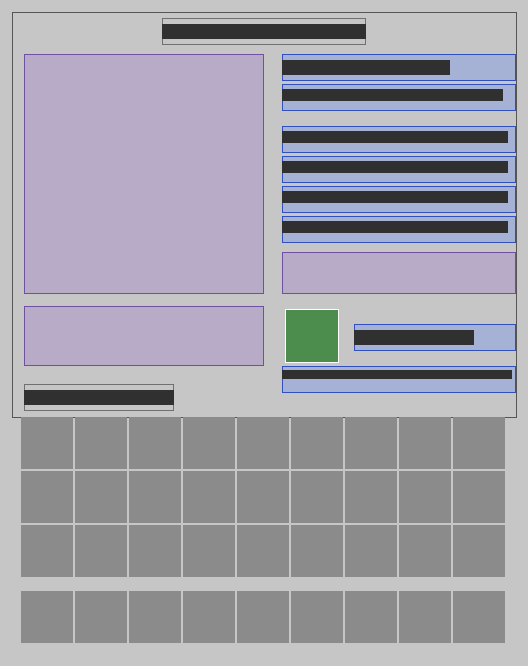
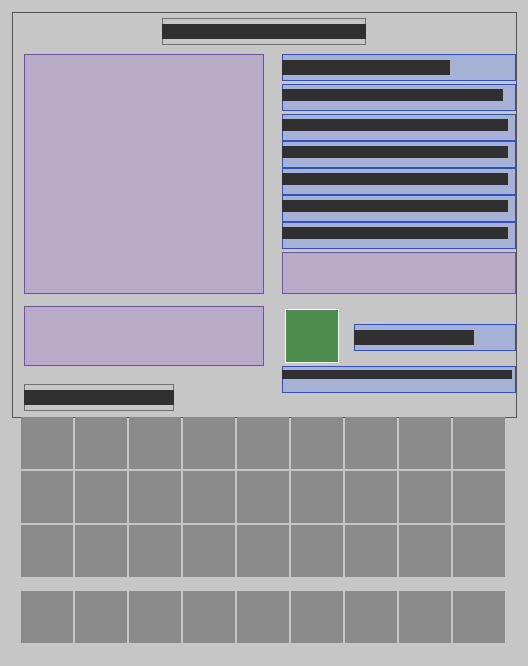
O-010 [9-18] [9-22]: v0.3 chain on real machines only; planar technique and integrated circuit as probe discoveries
- v03_chain: spin coater, developer bench, resist stripper (E) and mask aligner (C) replace the ChipOps stand-ins
- new discovery monolithic_ic (1959, Discoveries.integrated): a transistor and a resistor in a separate region joined by on-chip Al = Noyce's planar IC; Kilby's 1958 Ge/gold-wire IC noted as not makeable (REFERENCES L4)
- probe station lists 5 discoveries; tests count Discoveries.all().size() instead of 4
- TECH_TREE [9-18] [9-22] done, LITHO_DESIGN 6.3 and 10 updated, test_queue, HANDOFF, LOG. test.ps1 186/186

Changed region(s): [[0.5152, 0.1502, 0.9697, 0.3904]]

diff --git a/src/gametest/java/com/taku3/semiconductorlab/gametest/SemiconductorTests.java b/src/gametest/java/com/taku3/semiconductorlab/gametest/SemiconductorTests.java
@@ -339,7 +339,7 @@ public class SemiconductorTests extends LabTestBase {
         h.assertTrue(closed.get(ModDataComponents.OXIDE_NM) > 600, "and the oxide grows");
         // 全部の工程（エッチングはこの槽と同じ ChipOps）で NOT の例が4つの発見になる
         ItemStack done = com.taku3.semiconductorlab.litho.LithoExamples.process(wafer, design, com.taku3.semiconductorlab.litho.ExposureTool.CONTACT_G);
-        h.assertValueEqual(com.taku3.semiconductorlab.litho.Discoveries.match(com.taku3.semiconductorlab.litho.Netlist.extract(com.taku3.semiconductorlab.litho.ChipModel.of(done.get(ModDataComponents.CHIP_STATE)))).size(), 4, "NOT example through all steps");
+        h.assertValueEqual(com.taku3.semiconductorlab.litho.Discoveries.match(com.taku3.semiconductorlab.litho.Netlist.extract(com.taku3.semiconductorlab.litho.ChipModel.of(done.get(ModDataComponents.CHIP_STATE)))).size(), com.taku3.semiconductorlab.litho.Discoveries.all().size(), "NOT example through all steps");
         LOG.info("[LAB] litho hookup [9-06]/[9-15]: etching tank opens windows on 4 developed wafers (= ChipOps.etchOxide), oxidation furnace closes them (reoxidize) and grows the oxide");
         h.succeed();
     }
@@ -408,7 +408,7 @@ public class SemiconductorTests extends LabTestBase {
         lv.getEntitiesOfClass(net.minecraft.world.entity.item.ItemEntity.class, new net.minecraft.world.phys.AABB(ta).inflate(2)).forEach(net.minecraft.world.entity.Entity::discard);
         ItemStack chip = com.taku3.semiconductorlab.litho.ChipOps.strip(wired).out();
         var found = com.taku3.semiconductorlab.litho.Discoveries.match(com.taku3.semiconductorlab.litho.Netlist.extract(com.taku3.semiconductorlab.litho.ChipModel.of(chip.get(ModDataComponents.CHIP_STATE))));
-        h.assertValueEqual(found.size(), 4, "wired chip = NOT example (4 discoveries)");
+        h.assertValueEqual(found.size(), com.taku3.semiconductorlab.litho.Discoveries.all().size(), "wired chip = NOT example (all discoveries)");
         LOG.info("[LAB] Al wiring [9-25]: bone ash + H2SO4 -> H3PO4; evaporator puts Al on 8 wafers (0.004 Pa, not 50 Pa); H3PO4 in the etching tank leaves the wiring; NOT example -> {} discoveries", found.size());
         h.succeed();
     }
@@ -499,7 +499,7 @@ public class SemiconductorTests extends LabTestBase {
             w = cleaned;
         }
         h.assertTrue(maxDirt > 0, "dirt builds up between cleanings");
-        h.assertValueEqual(com.taku3.semiconductorlab.litho.Discoveries.match(com.taku3.semiconductorlab.litho.Netlist.extract(com.taku3.semiconductorlab.litho.ChipModel.of(w.get(ModDataComponents.CHIP_STATE)))).size(), 4, "cleaned NOT example still gives 4 discoveries");
+        h.assertValueEqual(com.taku3.semiconductorlab.litho.Discoveries.match(com.taku3.semiconductorlab.litho.Netlist.extract(com.taku3.semiconductorlab.litho.ChipModel.of(w.get(ModDataComponents.CHIP_STATE)))).size(), com.taku3.semiconductorlab.litho.Discoveries.all().size(), "cleaned NOT example still gives all discoveries");
         // 薬品なしでは動かない
         c.setItem(com.taku3.semiconductorlab.block.CleaningBenchBlockEntity.SLOT_OUT, ItemStack.EMPTY);
         ItemStack dirty = com.taku3.semiconductorlab.litho.ChipOps.strip(com.taku3.semiconductorlab.litho.ChipOps.coat(w).out()).out();
@@ -660,7 +660,7 @@ public class SemiconductorTests extends LabTestBase {
             if (k.isDiffusion()) w = com.taku3.semiconductorlab.litho.ChipOps.diffuse(w, k.dopes).out();
             else if (k != com.taku3.semiconductorlab.litho.LayerKind.METAL) w = com.taku3.semiconductorlab.litho.ChipOps.depositMetal(w).out();
         }
-        h.assertValueEqual(com.taku3.semiconductorlab.litho.Discoveries.match(com.taku3.semiconductorlab.litho.Netlist.extract(com.taku3.semiconductorlab.litho.ChipModel.of(w.get(ModDataComponents.CHIP_STATE)))).size(), 4, "NOT example with the spin coater -> 4 discoveries");
+        h.assertValueEqual(com.taku3.semiconductorlab.litho.Discoveries.match(com.taku3.semiconductorlab.litho.Netlist.extract(com.taku3.semiconductorlab.litho.ChipModel.of(w.get(ModDataComponents.CHIP_STATE)))).size(), com.taku3.semiconductorlab.litho.Discoveries.all().size(), "NOT example with the spin coater -> all discoveries");
         // 塗ったウェハーにもう一度は塗れない
         ItemStack again = coat.apply(com.taku3.semiconductorlab.litho.ChipOps.coat(w).out());
         h.assertTrue(again.isEmpty(), "already coated -> cannot coat again");
@@ -702,7 +702,7 @@ public class SemiconductorTests extends LabTestBase {
             if (k.isDiffusion()) w = com.taku3.semiconductorlab.litho.ChipOps.diffuse(w, k.dopes).out();
             else if (k != com.taku3.semiconductorlab.litho.LayerKind.METAL) w = com.taku3.semiconductorlab.litho.ChipOps.depositMetal(w).out();
         }
-        h.assertValueEqual(com.taku3.semiconductorlab.litho.Discoveries.match(com.taku3.semiconductorlab.litho.Netlist.extract(com.taku3.semiconductorlab.litho.ChipModel.of(w.get(ModDataComponents.CHIP_STATE)))).size(), 4, "NOT example with the stripper -> 4 discoveries");
+        h.assertValueEqual(com.taku3.semiconductorlab.litho.Discoveries.match(com.taku3.semiconductorlab.litho.Netlist.extract(com.taku3.semiconductorlab.litho.ChipModel.of(w.get(ModDataComponents.CHIP_STATE)))).size(), com.taku3.semiconductorlab.litho.Discoveries.all().size(), "NOT example with the stripper -> all discoveries");
         h.assertTrue(com.taku3.semiconductorlab.block.ResistStripperBlockEntity.product(w).isEmpty(), "no resist -> nothing to strip");
         h.getLevel().getEntitiesOfClass(net.minecraft.world.entity.item.ItemEntity.class, new net.minecraft.world.phys.AABB(h.absolutePos(fp)).inflate(2)).forEach(net.minecraft.world.entity.Entity::discard);
         LOG.info("[LAB] resist stripper: H2SO4 + H2O2 strips 8 wafers per run (rework too); NOT example -> 4 discoveries");
@@ -748,7 +748,7 @@ public class SemiconductorTests extends LabTestBase {
             if (k.isDiffusion()) w = com.taku3.semiconductorlab.litho.ChipOps.diffuse(w, k.dopes).out();
             else if (k != com.taku3.semiconductorlab.litho.LayerKind.METAL) w = com.taku3.semiconductorlab.litho.ChipOps.depositMetal(w).out();
         }
-        h.assertValueEqual(com.taku3.semiconductorlab.litho.Discoveries.match(com.taku3.semiconductorlab.litho.Netlist.extract(com.taku3.semiconductorlab.litho.ChipModel.of(w.get(ModDataComponents.CHIP_STATE)))).size(), 4, "coater -> develop -> strip machines: NOT example -> 4 discoveries");
+        h.assertValueEqual(com.taku3.semiconductorlab.litho.Discoveries.match(com.taku3.semiconductorlab.litho.Netlist.extract(com.taku3.semiconductorlab.litho.ChipModel.of(w.get(ModDataComponents.CHIP_STATE)))).size(), com.taku3.semiconductorlab.litho.Discoveries.all().size(), "coater -> develop -> strip machines: NOT example -> all discoveries");
         h.getLevel().getEntitiesOfClass(net.minecraft.world.entity.item.ItemEntity.class, new net.minecraft.world.phys.AABB(h.absolutePos(p(2, 1, 2))).inflate(4)).forEach(net.minecraft.world.entity.Entity::discard);
         LOG.info("[LAB] developer [9-21]: dilute NaOH develops exposed wafers (8 per run); coater + developer + stripper machines -> NOT example 4 discoveries");
         h.succeed();
@@ -1017,7 +1017,7 @@ public class SemiconductorTests extends LabTestBase {
         // 予想（設計図から）
         var predicted = com.taku3.semiconductorlab.litho.Netlist.extract(com.taku3.semiconductorlab.litho.ChipModel.of(design, "p"));
         var ids = com.taku3.semiconductorlab.litho.Discoveries.match(predicted).stream().map(com.taku3.semiconductorlab.litho.Discoveries.Discovery::id).toList();
-        h.assertTrue(ids.equals(java.util.List.of("diffused_resistor", "junction_diode", "planar_transistor", "rtl_not")), "8x8 example finds all four: " + ids);
+        h.assertTrue(ids.equals(java.util.List.of("diffused_resistor", "junction_diode", "planar_transistor", "monolithic_ic", "rtl_not")), "8x8 example finds all five: " + ids);
         int[] pins = com.taku3.semiconductorlab.litho.Circuit.notPins(predicted);
         double hi = com.taku3.semiconductorlab.litho.Circuit.notOutput(predicted, pins, false), lo = com.taku3.semiconductorlab.litho.Circuit.notOutput(predicted, pins, true);
         // 出力の低い方は約 1 V：島（コレクタ）の抵抗が大きい（埋め込み層のない最初のころの IC と同じ）
@@ -1028,7 +1028,7 @@ public class SemiconductorTests extends LabTestBase {
         ItemStack done = com.taku3.semiconductorlab.litho.LithoExamples.process(wafer, design, com.taku3.semiconductorlab.litho.ExposureTool.CONTACT_G);
         h.assertTrue(done.is(Semiconductor.PROCESS_WAFER) && done.getCount() == 8, "8 process wafers come out");
         var made = com.taku3.semiconductorlab.litho.Netlist.extract(com.taku3.semiconductorlab.litho.ChipModel.of(done.get(ModDataComponents.CHIP_STATE)));
-        h.assertTrue(com.taku3.semiconductorlab.litho.Discoveries.match(made).size() == 4, "processed chip = predicted chip");
+        h.assertTrue(com.taku3.semiconductorlab.litho.Discoveries.match(made).size() == com.taku3.semiconductorlab.litho.Discoveries.all().size(), "processed chip = predicted chip");
         h.assertValueEqual(wafer.getCount(), 8, "the input stack is not changed");
         // まちがった順・合わない物は断られる（ウェハーはそのまま）
         h.assertValueEqual(com.taku3.semiconductorlab.litho.ChipOps.expose(wafer, design.mask(0), com.taku3.semiconductorlab.litho.ExposureTool.CONTACT_G).reason(), "no_resist", "expose before coating");
@@ -1148,7 +1148,7 @@ public class SemiconductorTests extends LabTestBase {
         var filthyNl = com.taku3.semiconductorlab.litho.Netlist.extract(com.taku3.semiconductorlab.litho.ChipModel.of(filthy));
         h.assertFalse(com.taku3.semiconductorlab.litho.Circuit.worksAsNot(filthyNl), "very dirty chip does not work as a NOT");
         h.assertTrue(be.onButton(player, com.taku3.semiconductorlab.block.ProbeStationBlockEntity.BTN_PROBE), "probe");
-        h.assertValueEqual(be.found(), 0b1111, "four discoveries on this chip");
+        h.assertValueEqual(be.found(), (1 << com.taku3.semiconductorlab.litho.Discoveries.all().size()) - 1, "all discoveries on this chip");
         for (var d : com.taku3.semiconductorlab.litho.Discoveries.all())
             h.assertTrue(h.getLevel().getServer().getAdvancements().get(com.taku3.semiconductorlab.SemiconductorLab.id("discovery/" + d.id())) != null, "advancement discovery/" + d.id());
         be.getContainer().setItem(com.taku3.semiconductorlab.block.ProbeStationBlockEntity.SLOT_WAFER, ItemStack.EMPTY);
@@ -1253,7 +1253,11 @@ public class SemiconductorTests extends LabTestBase {
         int step = 0;
         for (int i = 0; i < design.layers().size(); i++) {
             var k = design.layers().get(i).kind();
-            w = ok(h, com.taku3.semiconductorlab.litho.ChipOps.coat(w), "coat " + i + " (stand-in for [9-19])");
+            // レジスト塗布機 [9-19]（実機、E）
+            w = runConsumer(h, p(7, 1, 4), Semiconductor.SPIN_COATER.block, new int[] {com.taku3.semiconductorlab.block.SpinCoaterBlockEntity.SLOT_WAFER, com.taku3.semiconductorlab.block.SpinCoaterBlockEntity.SLOT_RESIST},
+                    new ItemStack[] {w, new ItemStack(Chemistry.POSITIVE_RESIST)}, com.taku3.semiconductorlab.block.SpinCoaterBlockEntity.SLOT_OUT, com.taku3.semiconductorlab.block.SpinCoaterBlockEntity.TICKS + 10, com.taku3.semiconductorlab.block.SpinCoaterBlockEntity.WATTS);
+            h.assertTrue(w.getCount() == 8 && com.taku3.semiconductorlab.litho.ChipOps.state(w) != null && com.taku3.semiconductorlab.litho.ChipOps.state(w).resist() == com.taku3.semiconductorlab.litho.ChipState.Resist.COATED,
+                    "spin coater coats layer " + i + ", got " + w);
             // マスクアライナー [9-20]（実機、密着）：設計図の層のマスクをフォトマスクにして重ねる
             ItemStack photomask = new ItemStack(com.taku3.semiconductorlab.content.Optics.PHOTOMASK);
             photomask.set(ModDataComponents.MASK, design.mask(i));
@@ -1261,15 +1265,21 @@ public class SemiconductorTests extends LabTestBase {
                     new ItemStack[] {w, photomask}, com.taku3.semiconductorlab.block.MaskAlignerBlockEntity.SLOT_OUT, com.taku3.semiconductorlab.block.MaskAlignerBlockEntity.TICKS + 10, com.taku3.semiconductorlab.block.MaskAlignerBlockEntity.WATTS);
             h.assertTrue(com.taku3.semiconductorlab.litho.ChipOps.state(w) != null && com.taku3.semiconductorlab.litho.ChipOps.state(w).resist() == com.taku3.semiconductorlab.litho.ChipState.Resist.EXPOSED,
                     "mask aligner (contact) exposes layer " + i);
-            w = ok(h, com.taku3.semiconductorlab.litho.ChipOps.develop(w), "develop " + i + " (stand-in for [9-21])");
+            // 現像槽 [9-21]（実機、E）
+            w = runConsumer(h, p(7, 1, 6), Semiconductor.DEVELOPER_BENCH.block, new int[] {com.taku3.semiconductorlab.block.DeveloperBenchBlockEntity.SLOT_WAFER, com.taku3.semiconductorlab.block.DeveloperBenchBlockEntity.SLOT_DEV},
+                    new ItemStack[] {w, new ItemStack(Chemistry.DEVELOPER)}, com.taku3.semiconductorlab.block.DeveloperBenchBlockEntity.SLOT_OUT, com.taku3.semiconductorlab.block.DeveloperBenchBlockEntity.TICKS + 10, com.taku3.semiconductorlab.block.DeveloperBenchBlockEntity.WATTS);
+            h.assertTrue(w.getCount() == 8 && com.taku3.semiconductorlab.litho.ChipOps.state(w) != null && com.taku3.semiconductorlab.litho.ChipOps.state(w).resist() == com.taku3.semiconductorlab.litho.ChipState.Resist.DEVELOPED,
+                    "developer bench develops layer " + i + ", got " + w);
             if (k == com.taku3.semiconductorlab.litho.LayerKind.METAL) {
                 w = runEtch(h, p(3, 1, 1), w, Chemistry.PHOSPHORIC_ACID);   // Al のエッチング（実機）
                 h.assertTrue(com.taku3.semiconductorlab.litho.ChipOps.state(w).has(k), "etch tank + phosphoric acid -> metal layer");
-                w = ok(h, com.taku3.semiconductorlab.litho.ChipOps.strip(w), "strip " + i);
+                w = runConsumer(h, p(1, 1, 6), Semiconductor.RESIST_STRIPPER.block, new int[] {com.taku3.semiconductorlab.block.ResistStripperBlockEntity.SLOT_WAFER, com.taku3.semiconductorlab.block.ResistStripperBlockEntity.SLOT_ACID, com.taku3.semiconductorlab.block.ResistStripperBlockEntity.SLOT_PEROXIDE},
+                        new ItemStack[] {w, new ItemStack(Chemistry.SULFURIC_ACID), new ItemStack(Chemistry.HYDROGEN_PEROXIDE)}, com.taku3.semiconductorlab.block.ResistStripperBlockEntity.SLOT_OUT, com.taku3.semiconductorlab.block.ResistStripperBlockEntity.TICKS + 10, com.taku3.semiconductorlab.block.ResistStripperBlockEntity.WATTS);   // レジストはがし槽（実機、E）
             } else {
                 w = runEtch(h, p(3, 1, 1), w, Chemistry.HYDROFLUORIC_ACID);   // 酸化膜の窓（実機）
                 h.assertTrue(com.taku3.semiconductorlab.litho.ChipOps.state(w) != null && com.taku3.semiconductorlab.litho.ChipOps.state(w).hasWindows(), "etch tank + HF -> windows, layer " + i);
-                w = ok(h, com.taku3.semiconductorlab.litho.ChipOps.strip(w), "strip " + i + " (no machine yet)");
+                w = runConsumer(h, p(1, 1, 6), Semiconductor.RESIST_STRIPPER.block, new int[] {com.taku3.semiconductorlab.block.ResistStripperBlockEntity.SLOT_WAFER, com.taku3.semiconductorlab.block.ResistStripperBlockEntity.SLOT_ACID, com.taku3.semiconductorlab.block.ResistStripperBlockEntity.SLOT_PEROXIDE},
+                        new ItemStack[] {w, new ItemStack(Chemistry.SULFURIC_ACID), new ItemStack(Chemistry.HYDROGEN_PEROXIDE)}, com.taku3.semiconductorlab.block.ResistStripperBlockEntity.SLOT_OUT, com.taku3.semiconductorlab.block.ResistStripperBlockEntity.TICKS + 10, com.taku3.semiconductorlab.block.ResistStripperBlockEntity.WATTS);   // レジストはがし槽（実機、E）
                 if (k.isDiffusion()) {   // 拡散炉（実機）
                     var src = new ItemStack(k.dopes == 'n' ? Chemistry.PHOSPHORUS : Metallurgy.BORON_TRIOXIDE);
                     w = runConsumer(h, p(5, 1, 1), Semiconductor.DIFFUSION_FURNACE.block,
@@ -1301,8 +1311,8 @@ public class SemiconductorTests extends LabTestBase {
         var probe = h.getBlockEntity(p(3, 1, 6), com.taku3.semiconductorlab.block.ProbeStationBlockEntity.class);
         probe.getContainer().setItem(com.taku3.semiconductorlab.block.ProbeStationBlockEntity.SLOT_WAFER, w);
         probe.onButton(h.makeMockPlayer(net.minecraft.world.level.GameType.SURVIVAL), com.taku3.semiconductorlab.block.ProbeStationBlockEntity.BTN_PROBE);
-        h.assertValueEqual(probe.found(), 0b1111, "the probe finds resistor, diode, transistor and NOT on the chip made by the machines");
-        LOG.info("[LAB] v0.3 chain: oxidation, mask aligner, etch (HF / phosphoric), diffusion x3, evaporator, cleaning bench, probe = real machines; coat / develop / strip = ChipOps stand-ins; NOT found (dirt {} -> 0)", dirt);
+        h.assertValueEqual(probe.found(), (1 << com.taku3.semiconductorlab.litho.Discoveries.all().size()) - 1, "the probe finds resistor, diode, transistor, IC and NOT on the chip made by the machines");
+        LOG.info("[LAB] v0.3 chain: oxidation, mask aligner, etch (HF / phosphoric), diffusion x3, evaporator, cleaning bench, probe = real machines; spin coater, developer bench, resist stripper = real machines too (no ChipOps stand-ins); NOT found (dirt {} -> 0)", dirt);
         h.succeed();
     }
 

diff --git a/src/main/java/com/taku3/semiconductorlab/litho/Discoveries.java b/src/main/java/com/taku3/semiconductorlab/litho/Discoveries.java
@@ -5,7 +5,7 @@ import java.util.List;
 
 /**
  * 発見の一覧（LITHO_DESIGN §6.3）。検査台でチップを調べ、歴史上の発明と同じつながりなら「見つけた」とする。
- * 正解は教えない：名前が出るのは見つけたあとだけ。v0.3 は4つ（抵抗・ダイオード・トランジスタ・NOT）。
+ * 正解は教えない：名前が出るのは見つけたあとだけ。v0.3 は5つ（抵抗・ダイオード・トランジスタ・IC・NOT）。
  */
 public final class Discoveries {
     private Discoveries() {}
@@ -22,7 +22,23 @@ public final class Discoveries {
         add("diffused_resistor", 1958, "9-22", (nl, k) -> !nl.resistors.isEmpty());
         add("junction_diode", 1940, "9-05", (nl, k) -> !nl.diodes.isEmpty() || !nl.transistors.isEmpty());
         add("planar_transistor", 1959, "9-18", (nl, k) -> !nl.transistors.isEmpty());
+        add("monolithic_ic", 1959, "9-22", (nl, k) -> integrated(nl));   // ノイスのプレーナ IC（O-010）
         add("rtl_not", 1961, "10-09", Circuit::worksAsNot);   // 汚れた（漏れる）チップは動かないことがある
+    }
+
+    /**
+     * 集積回路（[9-22]、ノイス 1959）：1枚の板の中で、トランジスタと「別の領域の」抵抗が、板の上の金属の線でつながっている。
+     * 別の領域＝接合で分けられた別の部品（ルホヴェックの接合分離）。金属の線＝酸化膜の上に蒸着した Al（ノイス）。
+     * キルビーの IC（1958、ゲルマニウム、部品どうしを金の細い線で空中につなぐ）はこの形では作れない（TECH_TREE [9-22]）
+     */
+    static boolean integrated(Netlist nl) {
+        for (Netlist.Transistor t : nl.transistors)
+            for (Netlist.Resistor r : nl.resistors) {
+                if (r.region() == t.emitter() || r.region() == t.base() || r.region() == t.collector()) continue;
+                for (int n : new int[] {t.eNet(), t.bNet(), t.cNet()})
+                    if (n == r.netA() || n == r.netB()) return true;
+            }
+        return false;
     }
 
     private static void add(String id, int year, String node, java.util.function.BiPredicate<Netlist, Double> test) { ALL.add(new Discovery(id, year, node, test)); }

diff --git a/src/main/java/com/taku3/semiconductorlab/block/ProbeStationBlockEntity.java b/src/main/java/com/taku3/semiconductorlab/block/ProbeStationBlockEntity.java
@@ -56,7 +56,7 @@ public class ProbeStationBlockEntity extends BlockEntity implements MachineBE {
                 .area("probe_button", RIGHT_X, PROBE_Y, 78, 14)
                 .text("pad", RIGHT_X, 18, 78, 1, "gui.semiconductor-lab.probe_station.pad").samples("12", "5 V").fit()
                 .text("amps", RIGHT_X, 28, 78, 1, "gui.semiconductor-lab.probe_station.amps").samples("-123.4 mA").fit();
-        for (int i = 0; i < 4; i++) b.lazyText("found" + i, RIGHT_X, 42 + 10 * i, 78, 1, () -> Discoveries.all().stream().map(Discoveries.Discovery::langKey).toList()).fit();
+        for (int i = 0; i < Discoveries.all().size(); i++) b.lazyText("found" + i, RIGHT_X, 38 + 9 * i, 78, 1, () -> Discoveries.all().stream().map(Discoveries.Discovery::langKey).toList()).fit();
         LAYOUT = b.text("dirt", WAFER_X + 22, WAFER_Y + 4, 54, 1, "gui.semiconductor-lab.probe_station.dirt").samples("200").fit()
                 .text("hint", RIGHT_X, 122, 78, 1, MachineLayout.keys("gui.semiconductor-lab.probe_station.", "need_wafer", "set_pads", "nothing")).fit()
                 .build();

diff --git a/docs/TECH_TREE.md b/docs/TECH_TREE.md
@@ -559,7 +559,7 @@ graph LR
 ### [9-15] 熱酸化（SiO2 膜）✅  遊び方: 重 ／ **実装（2026-10 IMP4-01）**: 酸化炉 oxidation_furnace（電気炉＋石英管×3＋耐火れんが×4＋銅ケーブル、5kW）。シリコンの板×8（酸化膜つきも可）＋酸素1袋（ドライ、隣のガスホルダーから補充）か水バケツ1（ウェット、空のバケツが戻る）→ 酸化膜つきの板 oxidized_wafer ×8（120秒＝1100℃・1時間ぶん。純度・ドーパントを受け継ぎ、膜の厚さ oxide_nm を Deal–Grove の式で：ドライ約125nm・ウェット約660nm、もう一度焼くと続きから）。ツールチップに膜の色（干渉）。窓の開いた加工中ウェハー 1〜8枚は窓を閉じ直す（ChipOps.reoxidize）。CHEMISTRY F1〜F4、REFERENCES 8 ／ テスト: oxidation_furnace ／ **前提の訂正（IMP4-01、年の整合）**: [9-13] 鏡面研磨（1963）を外し [9-12] 切った板に。1955 の発見は鏡面研磨より前（板は砥粒でならしてエッチングで仕上げた⚠） ／ 元の記述→  年: 1955（1955〜57） ／ 前提: [9-12]✅, [4-12]電気炉✅ or [3-14]✅, [6-01]O2✅ / 水蒸気, [7-02]石英管✅ ／ 本物: 1955 カール・フロッシュとリンカーン・デリック（ベル研）が、偶然できた酸化膜がドーパントを通さない「マスク」になると発見（1957 発表）。Si+O2→SiO2（約1000℃）。Ge の酸化物（GeO2）は水に溶けて使えない＝「シリコンが勝った理由」／ MC: 酸化炉（ROADMAP v0.2b #8）。膜厚は時間と温度で ／ へえ①: シリコンは自分の「さび」がガラスになって身を守る
 ### [9-16] 熱拡散（ドーピング）✅  遊び方: 重 ／ **実装（2026-10 IMP-25）**: 拡散炉 diffusion_furnace（電気炉＋石英管＋耐火れんが×6＋銅ケーブル、5kW）。シリコンの板×8（n型 か p型）＋反対の型のドーパント源×1（n型＋B2O3／p型＋リン）→ pn_junction_wafer（p-n 接合の板）×8（120秒、純度と土台のドーパントを受け継ぐ）。同じ型・真性では動かない。マスクなし（1954）。温度・時間はゲームの値（Q25-6）、ヒ素の代わりにリン（Q25-3）。CHEMISTRY #164、REFERENCES 8a ／ テスト: diffusion_furnace ／ 年: 1954（1954〜55） ／ 前提: [9-12]切った板, [9-11]ドーパント🔧, [4-12]電気炉✅ or [3-14]誘導加熱✅, [7-02]石英管✅ ／ 本物: 1954 フラーが、ヒ素で n型にしたシリコンの板にホウ素をしみ込ませ、表面に薄い p型の層を作った（太陽電池、ETHW・Perlin）。1954〜55 ベル研（フラー、タネンバウムら）の拡散型トランジスタ（1954 リーが Ge で、1955年3月 タネンバウムとトーマスが Si で）。高温でドーパントを表面から数µm しみ込ませる（フィックの法則）。酸化膜の窓の部分だけに入れる方法（マスク）は 1955 の熱酸化から（IMP-25 Q25-1：1954年はマスクなしで板全体に拡散したので、前提から熱酸化を外した）／ MC: 拡散炉（ROADMAP v0.2b #8）／ へえ①: 1000℃で何時間も焼くと、原子が固体の中を少しずつ歩く
 ### [9-17] メサトランジスタ ✅  遊び方: 実験（持ち歩くと劣化するのを見る）／ **実装（2026-10 IMP4-01、O-007）**: p-n 接合の板（p の板＋n の表面、[9-16]）＋アルミ →（真空蒸着 [5-14]、メタルマスク）→ Al の点の板 al_dotted_wafer（n の板は断る）→ かまど（Al-Si 共晶 577℃）→ 合金の板 alloyed_wafer（エミッタ）＋ハニカム（ろう）→ waxed_wafer ＋ 混酸 silicon_etch（フッ酸＋硝酸、鉛の瓶）→（エッチング槽 [9-06]）→ メサの板 mesa_wafer ＋金の粒2＋鉄の粒1 → メサトランジスタ mesa_transistor ×4（pnp、β＝40）。**接合がむき出し**：持ち物の中で1分ごとに β−1、雨・水の中で −5、0 で働かない（データコンポーネント current_gain）→ プレーナ [9-18] の必要。LITHO のデータは使わない。エミッタは合金（シリコンのメサは後に拡散も、placeholder）。CHEMISTRY F33〜F36、REFERENCES F17 ／ テスト: mesa_transistor ／ ID: al_dotted_wafer, alloyed_wafer, waxed_wafer, mesa_wafer, mesa_transistor, silicon_etch ／ 元の記述→  年: 1957（1957〜58） ／ 前提: [9-16], [9-06]エッチング, [5-14]蒸着 ／ 本物: 1957〜58 ベル研・TI・フェアチャイルド（2N697、1958）。拡散で作った層の周りを削って台地（メサ）状に残す。接合が表面にむき出しで汚れに弱かった ／ MC: 中間製品（第2章のトランジスタ）／ へえ①: 「メサ」はスペイン語で机。アメリカ西部の台地の形
-### [9-18] プレーナ技術 ❓  年: 1959 ／ 前提: [9-15], [9-16], [9-19][9-20][9-21]フォトリソ ／ 本物: 1959 ジャン・ヘルニ（フェアチャイルド）。酸化膜を残したまま窓を開けて拡散 → 接合が酸化膜で守られ、平らな表面に何個でも並べられる。これが IC[9-22]を可能にした ／ MC: ウェハーの状態機械（ROADMAP v0.3 #1）の基本形 ／ へえ①: 「平らなまま作る」というアイデアが IC の始まり
+### [9-18] プレーナ技術 ✅  年: 1959 ／ **実装（2026-10 A、INBOX O-010）**: 機械ではなく「やり方」。v0.3 の本線（酸化炉 → 塗布 → マスクアライナー → 現像 → エッチング槽（HF）→ はがし → 拡散炉、を拡散3回）は全部この方法＝酸化膜の窓からだけしみ込ませ、接合の端は酸化膜の下に隠れる（litho の ChipOps・ChipModel）。検査台で入れ子の n・p・n（トランジスタ）が見つかると発見 planar_transistor（進捗 discovery/planar_transistor が開き、説明にへえ）。⚠ 表面の平らさ・接合の漏れの少なさ（本物の利点）は数字にしていない（汚れの漏れ S-003 だけ）。GameTest v03Chain（全部実機）・probeStation。REFERENCES L4 ／ 元の記述→ 前提: [9-15], [9-16], [9-19][9-20][9-21]フォトリソ ／ 本物: 1959 ジャン・ヘルニ（フェアチャイルド）。酸化膜を残したまま窓を開けて拡散 → 接合が酸化膜で守られ、平らな表面に何個でも並べられる。これが IC[9-22]を可能にした ／ MC: ウェハーの状態機械（ROADMAP v0.3 #1）の基本形 ／ へえ①: 「平らなまま作る」というアイデアが IC の始まり
 ### [9-19] レジスト塗布（スピンコート）✅  遊び方: 重 ／ **実装（2026-10 IMP4-01、O-006）**: レジスト塗布機 spin_coater（鋼×6＋ソーダ石灰ガラス＋モーター＋銅ケーブル、500W）。酸化膜つきの板・加工中のウェハー1〜8枚＋ポジ型レジスト1（瓶は上に戻る）→ ChipOps.coat（20秒、プリベーク込み）。感光したレジストは不可。前提の [9-14] は段階1（1950年代の酸洗浄）✅。CHEMISTRY F39、REFERENCES F19 ／ テスト: spin_coater ／ ID: spin_coater ／ 元の記述→  年: 1960 ⚠ ／ 前提: [2-30] or [2-32]レジスト, [4-08]モーター✅, [9-14] ／ 本物: ウェハーを毎分数千回転させてレジストを遠心力で薄く均一に（約1µm）。プリベークで溶剤を飛ばす ／ MC: 塗布機（ROADMAP v0.3 #4）／ へえ①: ピザ生地を回して広げるのと同じ
 ### [9-20] 密着・近接露光（コンタクト／プロキシミティ）✅  年: 1955（1955〜57） ／ 遊び方: 実験（すき間：マスクの傷みとぼけ） ／ **実装（2026-10 IMP2、INBOX O-011：担当は C）**: マスクアライナー mask_aligner（block/MaskAlignerBlockEntity・client/MaskAlignerScreen、鋼×4＋複式顕微鏡（位置合わせ）＋送りねじ×2（台）＋水銀灯の管＋銅ケーブル、電気 500W・10秒）。レジストを塗った process_wafer＋フォトマスク[7-11] → ChipOps.expose(w, mask, CONTACT_G)（A の litho をそのまま呼ぶ）。画面のボタンですき間を 密着 → 20µm → 80µm と切りかえ：密着はぼけ≒λ（0.44µm）でマスクが板1枚ごとに耐久1減る、近接はマスクが傷まないがぼけ≒√(λ×すき間)（20µm で 3.0µm）、80µm（5.9µm）は線幅 10µm の半分を超えて焼けない。v03Chain の露光を実機に置き換えて NOT が見つかる。⚠ 位置合わせ（[8-17]）はまだ無く自動で合う。CHEMISTRY X1、REFERENCES O38 ／ テスト: mask_aligner・v03Chain ／ 元の記述→ 前提: [9-19], [7-11]銀塩マスク or [7-12]クロムマスク, [7-10]水銀ランプ, [8-17]アライメント ／ 本物: 1955〜57 ベル研のアンドラスとボンド、陸軍のラスロップとナルが写真製版を半導体に応用。マスクをウェハーに密着させて等倍で焼く（マスクが傷む）→ 少し浮かす（プロキシミティ、回折でぼける）。計算機の制御なしで動く＝ブートストラップの出発点 ／ MC: コンタクト露光機（ROADMAP v0.3 #5、マスク耐久が減る）／ へえ①: 最初の IC は、影絵のようにマスクの影を焼き付けて作った
 ### [9-39] 縮小投影露光（ステッパー→スキャナー）❓  年: 1978 ／ 前提: [9-20], [12-14]層流クリーンルーム（µm 以下ではほこり1粒で不良）, [7-19]投影レンズ, [8-08]ステージ, [10-15]制御（自作 CPU）, 光源 [7-10] or [7-20] ／ 本物: 1978 GCA の DSW（1/10縮小。光源を g線とする解説があるが、DSW 4800 の仕様ページは i線（改造機の可能性）で、g線と確かめられるのは後継の 6300⚠）、1980年代 ニコン・キヤノンのステッパー、1990年代 スキャナー（スリット状の光でマスクとウェハーを同時に走らせる）。レイリーの式 CD=k1·λ/NA で波長と NA が勝負 ／ MC: ステッパー（ROADMAP v0.4 #2、光源交換 g線→i線→KrF→ArF、[7-16]で液浸）／ へえ①: 半導体の歴史は「もっと短い光で、もっと細かく」の歴史
@@ -574,7 +574,7 @@ graph LR
 ### [9-48] 半導体ヘテロ構造（ダブルヘテロ接合のレーザー・HEMT） ❓  年: 1970（1963〜1979） ／ 前提: [7-25]半導体レーザー, [9-30]エピタキシー（薄い層を重ねる）, [1-44]ガリウム（GaAs・AlGaAs） ／ 本物: 性質のちがう半導体（ガリウムヒ素とアルミニウムガリウムヒ素など）を原子の並びをそろえて薄く重ねると、その境目に電子や光を閉じこめられる。1963年、ハーバート・クレーマーとジョレス・アルフェロフが別々にこの考えを出し、1970年、アルフェロフのグループとベル研究所の林厳雄らが、室温で連続して光る半導体レーザーを作った（アルフェロフの方が約1か月早く発表）。アルフェロフとクレーマーは2000年にノーベル物理学賞。光ファイバー通信の光源、CD・DVD・ブルーレイのレーザー、明るい LED、1979年に富士通で発明された HEMT（スマホや衛星放送の電波を受けるトランジスタ、IEEE マイルストーン）に使われる ／ MC: 未定（実装の前に相談） ／ へえ①: CD や光ファイバーのレーザーは、ちがう半導体を原子の厚さで重ねたサンドイッチの中で光っている（O-009 で追加。出典：Nobel Prize「Physics 2000」、京都賞、IEEE Milestones「HEMT 1979」、半導体産業人協会）
 ### [9-49] サイリスタ（SCR：大電流をオン・オフする半導体スイッチ） ❓  年: 1957（1956〜1957） ／ 前提: [9-16]熱拡散（p・n・p・n の4層）, [4-11]整流器 ／ 本物: シリコンに p・n・p・n の4つの層を作った半導体のスイッチ。小さな電流を1回流すだけでオンになり、大きな電流を流し続ける。1956年ごろベル研究所で p-n-p-n のスイッチが研究され、1957年にアメリカの GE が3本足の SCR（シリコン制御整流器）を作って売り出した（IEEE マイルストーン「SCR/Thyristor, 1957」）。水銀整流器やガス入りの管を置きかえ、電車・電力のインバータは最初サイリスタで作られた（GTO・IGCT はその子孫、[9-41]） ／ MC: 未定（実装の前に相談） ／ へえ①: 電車のモーターの速さを変える装置は、最初はサイリスタという半導体のスイッチで作られた（O-011 で追加。出典：IEEE Milestones「SCR/Thyristor, 1957」、ETHW IEEE Milestones 'SCR/Thyristor, 1957' / IEEE Spectrum（https://ethw.org/Milestones:SCR/Thyristor,_1957））
 ### [9-21] 現像・ポストベーク ✅  年: 1957（1955〜57） ／ 遊び方: 重 ／ **実装（2026-10 IMP4-01、O-006）**: 現像液 developer（作業台：NaOH1＋水バケツ1＋空のガラス瓶3 → 3、約1%）。現像槽 developer_bench（ソーダ石灰ガラス×5＋鉄×2＋銅ケーブル、300W）：露光した加工中のウェハー1〜8枚＋現像液 → ChipOps.develop（ポストベーク込み、20秒）。ネガ型（キシレン）は [2-30] の後。CHEMISTRY F41〜F42、REFERENCES F20、テスト developer_bench ／ 続きの「レジストはがし」: 続きの「レジストはがし」だけ先に：レジストはがし槽 resist_stripper（ソーダ石灰ガラス×7＋銅ケーブル、500W）。レジスト付きのウェハー1〜8枚＋硫酸＋過酸化水素 → ChipOps.strip（塗り直しにも）。CHEMISTRY F40、テスト resist_stripper。現像そのものは前提 [9-20]（C）の後 ／ 前提: [9-20], 現像液＝[2-02]KOH or [2-08]NaOH or [2-20]キシレン（ポジ型は KOH・NaOH の薄い水溶液、現代は金属を含まない TMAH（2.38% 水溶液が標準）。ネガ型はキシレン）／ 本物: 露光部（ポジ）or 未露光部（ネガ）を溶かして模様を出す → 加熱して固め、エッチングに耐えるように。現像で窓を開ける工程はベル研の1955〜57年から（コダックの KPR）。ポストベークの始まりの年は未確認 ／ MC: 現像槽（ROADMAP v0.3 #4）／ へえ①: 写真の現像と同じ手順で回路を浮かび上がらせる
-### [9-22] 集積回路（IC）❓  年: 1958（1958〜59） ／ 前提: [9-18], [9-25]配線 ／ 本物: 1958.9 ジャック・キルビー（TI。Ge 上に部品を作り金線で結んだ）、1959 ロバート・ノイス（フェアチャイルド。プレーナ＋蒸着 Al 配線で一体化＝モノリシック IC）。キルビーは2000年ノーベル物理学賞 ／ MC: チップアイテム（design / grade、ROADMAP v0.3 #7）／ へえ①: 最初の IC はトランジスタ1個と部品数個の、指先ほどの大きさ ／ 種類: モノ
+### [9-22] 集積回路（IC）✅  年: 1958（1958〜59） ／ **実装（2026-10 A、INBOX O-010）**: 検査台の発見 monolithic_ic（1959、Discoveries.integrated）：1枚の板の中で、トランジスタと「別の領域の」抵抗（接合で分けた別の部品）が、板の上の Al の線でつながっていれば見つかる（進捗 discovery/monolithic_ic、チャレンジ）。ゲームで作れるのは**ノイスの形**（Si・プレーナ・酸化膜の上の蒸着 Al・接合分離）。**キルビーの形**（1958.9.12、TI、Ge の1かけらにトランジスタ・板そのものの抵抗・pn 接合のコンデンサ、部品どうしは金の細い線で空中に＝メサ形、平らでない）は作れない＝省略⚠（Ge の板と金線のボンディングが無い。説明と REFERENCES L4 に違いを書いた）。8×8 の NOT の例は5つの発見（抵抗・ダイオード・トランジスタ・IC・NOT）。GameTest litho_core・probe_station・v03Chain ／ 元の記述→ 前提: [9-18], [9-25]配線 ／ 本物: 1958.9 ジャック・キルビー（TI。Ge 上に部品を作り金線で結んだ）、1959 ロバート・ノイス（フェアチャイルド。プレーナ＋蒸着 Al 配線で一体化＝モノリシック IC）。キルビーは2000年ノーベル物理学賞 ／ MC: チップアイテム（design / grade、ROADMAP v0.3 #7）／ へえ①: 最初の IC はトランジスタ1個と部品数個の、指先ほどの大きさ ／ 種類: モノ
 ### [9-23] MOSFET ❓  年: 1959（1959〜60） ／ 前提: [9-15]（良質な薄い酸化膜）, [9-18], [9-14] ／ 本物: 1959 モハメド・アタラとダウォン・カーン（ベル研）が試作、1960 発表。ゲートの電圧で酸化膜の下に電子の通り道（チャネル）を作る。当初は Na イオン汚染で不安定 → 洗浄[9-14]などで1960年代後半に解決 ／ MC: 第3章以降の基本トランジスタ ／ へえ①: 人類が作った物の中で、いちばん数が多いのが MOSFET
 ### [9-24] CMOS ❓  年: 1963 ／ 前提: [9-23], [9-16] or [9-28]（n型とp型のウェル）／ 本物: 1963 フランク・ワンラスとサー・チータン（フェアチャイルド）。n型と p型の MOSFET を対にすると、止まっている間ほとんど電流が流れない。1970年代の電卓・腕時計から普及 ／ MC: [10-xx] 論理の省電力版（電卓[B-08]の条件）／ へえ①: 電卓や時計の電池が何年ももつのは CMOS のおかげ
 

diff --git a/docs/LITHO_DESIGN.md b/docs/LITHO_DESIGN.md
@@ -159,16 +159,17 @@ record ChipState(
 7. **論理**（`Circuit.logic(netlist, 入力)`）：電源 5 V・0 V と入力（0 V／5 V）を与えて出力が 2.5 V より上か下か。のちに電卓・コンピュータのチップがこれで「本当に計算」する（方針5）
 
 ### 6.3 発見：`Discoveries.match(netlist)`
-- 発見の一覧（`litho/Discovery`：id・年・ノード・判定）。上から順に、v0.3 は4つ：
+- 発見の一覧（`litho/Discovery`：id・年・ノード・判定）。上から順に、v0.3 は5つ（O-010 で IC を足した）：
 
 | id | 名前 | 年 | ノード | 判定 |
 |---|---|---|---|---|
 | `diffused_resistor` | 拡散抵抗 | 1958 | [9-22] | 抵抗が1つ以上 |
 | `junction_diode` | pn 接合ダイオード | 1940 | [9-05] 系 | ダイオードが1つ以上 |
 | `planar_transistor` | プレーナトランジスタ | 1959 | [9-18] | トランジスタが1つ以上 |
+| `monolithic_ic` | 集積回路（ノイスのプレーナ IC） | 1959 | [9-22] | トランジスタと、別の領域（接合で分けた別の部品）の抵抗が、同じ Al の線につながっている。キルビーの Ge・金線の IC は作れない（REFERENCES L4） |
 | `rtl_not` | NOT（RTL のインバータ） | 1961 ⚠ | [10-09]・[10-10] | トランジスタ1＋抵抗（コレクタ側）で、計算すると入力 0→出力 1、1→0 |
 
-- 一致したら「あなたは 1959 年のプレーナトランジスタを自分で作った」と知らせ、図鑑（zukan）と進捗を開く（③、A）
+- 一致したら「あなたは 1959 年のプレーナトランジスタを自分で作った」と知らせ、進捗 discovery/<id> を開く（説明にへえ。IC はチャレンジの枠）（③、A）
 - 年と出典は REFERENCES に1項目ずつ（A）。⚠ のものは確かめてから
 - 判定は「形」ではなく**つながり方**で見る（同じ回路なら、どこに描いても・どの向きでも同じ発見）
 
@@ -204,30 +205,31 @@ p型の板。n の島（コレクタ）5×5 の中に p（ベース）3×3、そ
 
 ## 10. v0.3 の通し（O-005、2026-10-20 の時点）
 
-シリコンの板から NOT の発見まで、実際の機械で順に通すとどこまでつながっているか。GameTest `v03_chain`（SemiconductorTests.v03Chain）が、
-つながっている所は実機で、まだの所は ChipOps の関数で代わりに通す（代わりにした所はテストの説明に書いてある）。
+シリコンの板から NOT の発見まで、実際の機械で順に通すとどこまでつながっているか。GameTest `v03_chain`（SemiconductorTests.v03Chain）が
+**全部の工程を実機で**通す（O-010。ChipOps の直呼びの代わりはなくなった。マスクだけは設計図の MaskData を直接フォトマスクに入れる）。
 
 | 順 | 工程 | ノード | 機械（担当） | ChipOps | 今 |
 |---|---|---|---|---|---|
 | 1 | 板を切る | [9-12] ✅ | ウェハー切断機（A） | — | ✅ 実機（テストは切った板から始める） |
 | 2 | 酸化膜 | [9-15] ✅ | 酸化炉（E） | — | ✅ 実機 |
 | 3 | 原図・マスク | [7-11] ✅ | 製図台（A）→ 縮小カメラ（C） | — | ✅ 実機あり（テストは設計図の MaskData を直接） |
-| 4 | レジスト塗布 | [9-19] ❓ | **まだない**（レジスト [2-30]/[2-32] も ❓、E・D） | `coat` | ⛔ 代わり |
-| 5 | 露光 | [9-20] ❓ | **まだない**（C か E、水銀ランプ [7-10] ✅） | `expose` | ⛔ 代わり |
-| 6 | 現像 | [9-21] ❓ | **まだない**（E） | `develop` | ⛔ 代わり |
+| 4 | レジスト塗布 | [9-19] ✅ | レジスト塗布機 spin_coater＋ポジ型レジスト（E） | `coat` | ✅ 実機 |
+| 5 | 露光 | [9-20] ✅ | マスクアライナー mask_aligner（C、密着／近接） | `expose` | ✅ 実機 |
+| 6 | 現像 | [9-21] ✅ | 現像槽 developer_bench＋現像液（E） | `develop` | ✅ 実機 |
 | 7 | 酸化膜の窓 | [9-06] ✅ | エッチング槽＋フッ酸（E） | `etchOxide` | ✅ 実機 |
-| 8 | レジストはがし | （[9-21] の続き） | **まだない** | `strip` | ⛔ 代わり |
+| 8 | レジストはがし | （[9-21] の続き）✅ | レジストはがし槽 resist_stripper＋硫酸＋過酸化水素（E） | `strip` | ✅ 実機 |
 | 9 | 拡散（3回） | [9-16] ✅ | 拡散炉（A） | `diffuse` | ✅ 実機 |
 | 10 | Al を付ける | [9-25] ✅ | 真空蒸着装置（C の装置に E が分岐）＋真空容器 | `depositMetal` | ✅ 実機 |
 | 11 | Al を削る | [9-25] ✅ | エッチング槽＋リン酸（E） | `etchMetal` | ✅ 実機 |
 | 12 | 洗う | [9-14] ❓（段階1 は機械あり） | 洗浄台（E） | `clean` | ✅ 実機 |
-| 13 | 調べる・発見 | [9-35] ❓（v0.3 は検査台で代わり） | 検査台（A） | — | ✅ 実機（4つ見つかる） |
+| 13 | 調べる・発見 | [9-35] ❓（v0.3 は検査台で代わり） | 検査台（A） | — | ✅ 実機（5つ見つかる：[9-18] プレーナ・[9-22] IC を含む） |
 | — | やり直し | [9-13] ✅・[9-15] ✅ | 研磨機・酸化炉（E） | `reclaim`・`reoxidize` | ✅ 実機 |
 
-- **残り（つながっていない所）**：4 塗布・5 露光・6 現像・8 はがし。この4つができると、遊ぶ人が機械だけで NOT まで作れる
-- テストの汚れ：工程の汚れは洗浄台で 0 になり、検査台で4つとも見つかる
+- **残り**：なし（O-010）。遊ぶ人が機械だけで板から NOT まで作れる。⚠ 位置合わせ [8-17] はまだ無く自動で合う（C）
+- テストの汚れ：工程の汚れは洗浄台で 0 になり、検査台で5つとも見つかる
 
 ## 変更履歴
+- 2026-10-20 O-010：v03_chain を全部実機に（塗布機・現像槽・はがし槽＝E、マスクアライナー＝C）。発見に monolithic_ic（[9-22]、ノイスのプレーナ IC、Discoveries.integrated）を足して5つに。[9-18]・[9-22] ✅、§10 の表を今の状態に
 - 2026-10-20 初版（O-002 ①）
 - 2026-10-20 O-006：大きな方眼の受け皿。製図台は方眼の大きさを露光の方法と同じ 8・12・16・24・36・44・52・72 に（#）、ホイールでマウスの下を中心に拡大（1マス最大 16px）・中ボタンのドラッグで移動、右下に全体のどこを見ているかの小さな枠、断面図も見えている所だけ（はみ出さない）。回路の計算は点が 400 を超えると疎な行列＋BiCGSTAB（ヤコビの前処理）：8×8 の結果は密な解き方と同じ、24×24 は約50 ms・72×72 は約0.4 秒
 - 2026-10-20 §10 v0.3 の通し（O-005）：実機でつながっている所・まだの所の表、GameTest v03_chain

diff --git a/docs/REFERENCES.md b/docs/REFERENCES.md
@@ -447,6 +447,21 @@
 ゲーム（litho/ChipModel.sheetOhms）：板 5000、1回目の拡散（島・コレクタ）1000、2回目（ベース）200、3回目（エミッタ）10 Ω/□。⚠ 板の値はゲームの値（本物の基板は厚いので面抵抗では表さない）
 根拠：R. C. Jaeger『Introduction to Microelectronic Fabrication』（拡散・面抵抗・四探針法の章）、A. S. Grove『Physics and Technology of Semiconductor Devices』（1967、拡散層の面抵抗）、S. M. Sze『Semiconductor Devices: Physics and Technology』
 
+## L4. 最初の IC は2つある（キルビーのゲルマニウムとノイスのプレーナ）［9-18］［9-22］（O-010、検査台の発見 monolithic_ic）
+**答え**：IC（集積回路）＝1つの板の中に、トランジスタ・抵抗・コンデンサをまとめて作り、つないだもの。最初のものは2つの形がある。
+① ジャック・キルビー（TI）：1958年9月12日に動かした。ゲルマニウムの1かけらに、トランジスタ、板そのものを使った抵抗、pn 接合のコンデンサを作り、部品どうしは金の細い線で空中につないだ（発振回路）。表面に段のあるメサ形で、平らではない。
+② ロバート・ノイス（フェアチャイルド）：1959年1月にノートに書き、7月に特許を出した。ヘルニのプレーナ技術（酸化膜に窓を開けてしみ込ませ、接合を酸化膜で守る、1959）の上に、酸化膜の上へ Al を蒸着して配線する。部品どうしは pn 接合で電気的に分ける（ルホヴェック、スプレーグ、1959年に特許出願）。1960年にフェアチャイルドのラストのグループが、この形で動く IC を作った。
+ゲームで作れるのは②（Si・プレーナ・蒸着 Al・接合分離）。検査台で、トランジスタと別の領域の抵抗が Al の線でつながっていると「集積回路（ノイスのプレーナ IC）」の発見。
+
+- へえ①：キルビーの IC は金の線が空中にはみ出していて、写真では「髪の毛が生えた小さなかけら」に見える。
+- へえ②：特許はキルビー（TI）とノイス（フェアチャイルド）で争いになり、最後は両社がたがいに使えるように取り決めた（1966年）。
+- へえ③：たくさん作れる形になったのはノイスの方（平らなので、写真の方法で配線まで一度に作れる）。今の IC はすべてこの子孫。
+- へえ④：2000年のノーベル物理学賞はキルビーが受けた。ノイスは1990年に亡くなっていて、ノーベル賞は亡くなった人には贈られない。
+
+確かさ：キルビー 1958.9.12・Ge・金線 ◎／ノイスの 1959 年のノートと特許（US 2,981,877、1961年に認められた）◎／ルホヴェックの接合分離 1959 ◎／フェアチャイルドの最初の動くプレーナ IC が 1960 年 ○／両社の取り決めが 1966 年 ○
+ゲーム（litho/Discoveries.integrated）：トランジスタと、それと別の領域の抵抗が、同じ Al の線につながっていれば見つかる。⚠ キルビーの形（Ge・メサ・金線）はゲームでは作れない（省略）
+根拠：Computer History Museum「1958 – All semiconductor "Solid Circuit" is demonstrated」「1959 – Practical monolithic integrated circuit concept patented」、J. S. Kilby, "Invention of the integrated circuit", IEEE Trans. Electron Devices 23 (1976) 648、Nobel Prize in Physics 2000（nobelprize.org）
+
 ---
 
 ## F17. 台地の形のトランジスタ（メサトランジスタ）［9-17］

diff --git a/docs/TEST_QUEUE.md b/docs/TEST_QUEUE.md
@@ -720,6 +720,10 @@
 - [x] 自動✅ 現像液は NaOH から、塗っただけ（露光なし）では現像しない、NOT の例の5層を 塗布機 → 露光 → 現像槽 → エッチング → はがし槽 で通す → 4つの発見 `(developer_bench)`
 - [ ] 人間：C のマスクアライナーで露光したウェハーが現像槽に入るか、現像槽の GUI（状態「まだ露光していない」）、瓶が上に出る
 
+## [9-18] [9-22] プレーナ技術と集積回路（発見、A、O-010）
+- [x] 自動✅ v03Chain：板 → 酸化炉 → 塗布機 → マスクアライナー → 現像槽 → エッチング槽 → はがし槽 → 拡散炉（3回）→ 蒸着 → Al のエッチング → 洗浄台 → 検査台が全部実機で、5つの発見（抵抗・ダイオード・プレーナトランジスタ・集積回路・NOT）。litho_core：8×8 の例の予想も5つ
+- [ ] 人間：検査台で NOT の例を「調べる」と、右の欄に5行（最後まで読める、ボタンに重ならない）、チャットに「1959 年の集積回路（ノイスのプレーナ IC）」、進捗「発見」に IC がチャレンジの枠で出て、説明にキルビーとの違いが読めるか
+
 ## [12-11] 測量（三角測量）（IMP2、O-007）
 - [x] 自動✅ 底辺 20m・目標 (8,30) で正弦定理の距離が 1cm 以内、1分の読みでも誤差 5cm 未満、細長い三角形で 1° ずれると誤差が大きい、交わらない視線は null、方位 北0°/東90°、測点A の記録 → 短い底辺は保留 → 測点B で計算して消える、lang `(triangulation)`
 - [ ] 人間：セオドライトで遠くの木や塔をのぞいて離す → チャットに方位。横に 10〜20m 歩いて同じ物をのぞく → 距離と「実際の距離・ずれ」。底辺を短くすると誤差が増えるか。のぞいている間の望遠鏡の拡大

diff --git a/docs/tasks/LOG.md b/docs/tasks/LOG.md
@@ -392,3 +392,9 @@
 - TECH_TREE：[9-08]・[9-11] に「前提の年」の注、[9-09]（E のノード）は前提の行だけ。REFERENCES §4 に年の注。DECISIONS に1行
 - ネットワーク担当へ：Y-1 は A の判断で「前提は変えない・注を書いた」。年の逆転の自動チェックで残る場合は「説明ずみ」として扱ってほしい（network_proposals.md は B のファイルなので A は触っていない）
 
+## O-010 v0.3 の本線を実機で通す・[9-18] [9-22]（2026-10-20）
+- v03_chain：レジスト塗布機・現像槽・はがし槽（E）、マスクアライナー（C）を入れて、ChipOps の代わりなしの全部実機。E・C のファイルは触っていない（テストの数「4つの発見」を Discoveries.all().size() に変えただけ）
+- 発見 monolithic_ic（[9-22]、1959、Discoveries.integrated）：トランジスタと、別の領域の抵抗が同じ Al の線でつながっている。ゲームで作れるのはノイスの形（Si・プレーナ・蒸着 Al・接合分離）。キルビーの形（1958、Ge・メサ・金線）は省略⚠、説明と REFERENCES L4 に違い。進捗 discovery/monolithic_ic（チャレンジ）。検査台の発見の欄を5行に（38＋9×i）
+- [9-18] は「やり方」として ✅（本線の工程そのもの、発見 planar_transistor）
+- TECH_TREE [9-18][9-22] ✅、REFERENCES L4、LITHO_DESIGN §6.3・§10（残りなし）、test_queue 9_semiconductor、HANDOFF。test.ps1 186/186
+

diff --git a/docs/test_queue/9_semiconductor.md b/docs/test_queue/9_semiconductor.md
@@ -87,3 +87,7 @@
 ## [9-21] 現像（IMP4-01）
 - [x] 自動✅ 現像液は NaOH から、塗っただけ（露光なし）では現像しない、NOT の例の5層を 塗布機 → 露光 → 現像槽 → エッチング → はがし槽 で通す → 4つの発見 `(developer_bench)`
 - [ ] 人間：C のマスクアライナーで露光したウェハーが現像槽に入るか、現像槽の GUI（状態「まだ露光していない」）、瓶が上に出る
+
+## [9-18] [9-22] プレーナ技術と集積回路（発見、A、O-010）
+- [x] 自動✅ v03Chain：板 → 酸化炉 → 塗布機 → マスクアライナー → 現像槽 → エッチング槽 → はがし槽 → 拡散炉（3回）→ 蒸着 → Al のエッチング → 洗浄台 → 検査台が全部実機で、5つの発見（抵抗・ダイオード・プレーナトランジスタ・集積回路・NOT）。litho_core：8×8 の例の予想も5つ
+- [ ] 人間：検査台で NOT の例を「調べる」と、右の欄に5行（最後まで読める、ボタンに重ならない）、チャットに「1959 年の集積回路（ノイスのプレーナ IC）」、進捗「発見」に IC がチャレンジの枠で出て、説明にキルビーとの違いが読めるか

diff --git a/docs/HANDOFF.md b/docs/HANDOFF.md
@@ -30,6 +30,8 @@
 - A が持つ共通の仕組みの使い方：DESIGN「機械の共通化」「画面の文字と自動チェック」「容器のしくみ」「組立台」「マルチブロック」、docs/LITHO_DESIGN.md（§8 が担当のつなぎ方）
 
 ## A の直近（2026-10-20）
+- O-010：v0.3 の本線が全部実機に（GameTest v03_chain、代わりなし）。[9-18] プレーナ技術・[9-22] 集積回路 ✅（検査台の発見に monolithic_ic＝ノイスのプレーナ IC、5つに。キルビーの Ge・金線の IC は省略⚠）
+- O-009：Si のノードの年の逆転（[9-08]・[9-09]・[9-11]）は前提を変えずに注
 - O-004：[1-08] 鍛鉄（ブルーム →かまどで赤熱 →たき石で叩く）・[1-10] コークス高炉（高炉の燃料にコークス）
 - O-003：[3-04] ふいご → [1-06] 塊鉄炉 → [1-09] 高炉（最初のマルチブロック、銑鉄。転炉は銑鉄だけ）
 - O-002：露光とマスクの中心（litho パッケージ・製図台・検査台・発見4つ・拡散炉の窓対応）、S-003 汚れは漏れ電流に（洗えと言わずに気づかせる）
